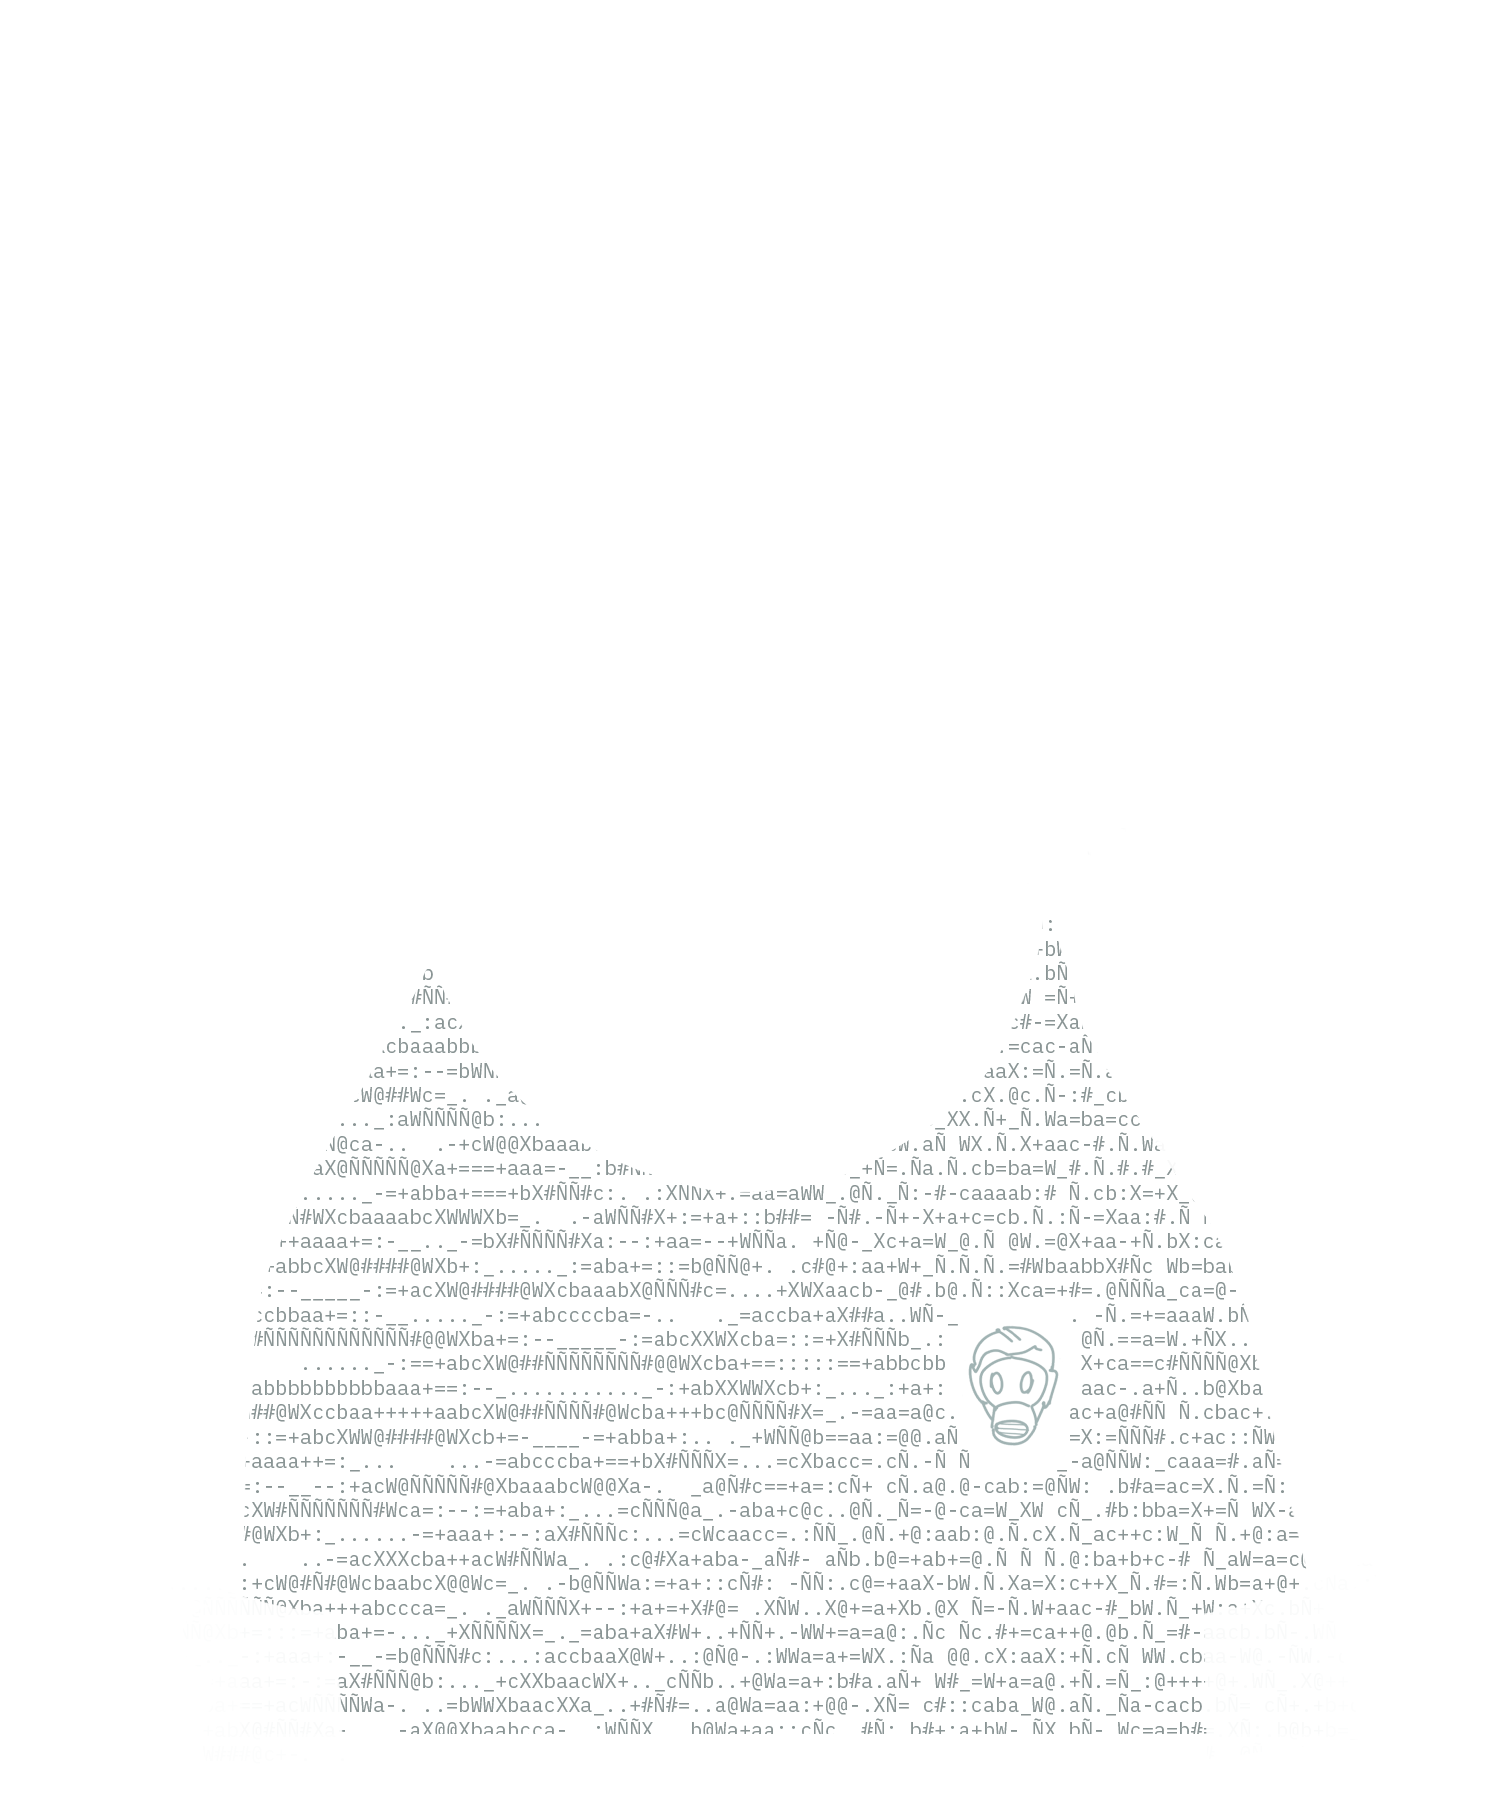
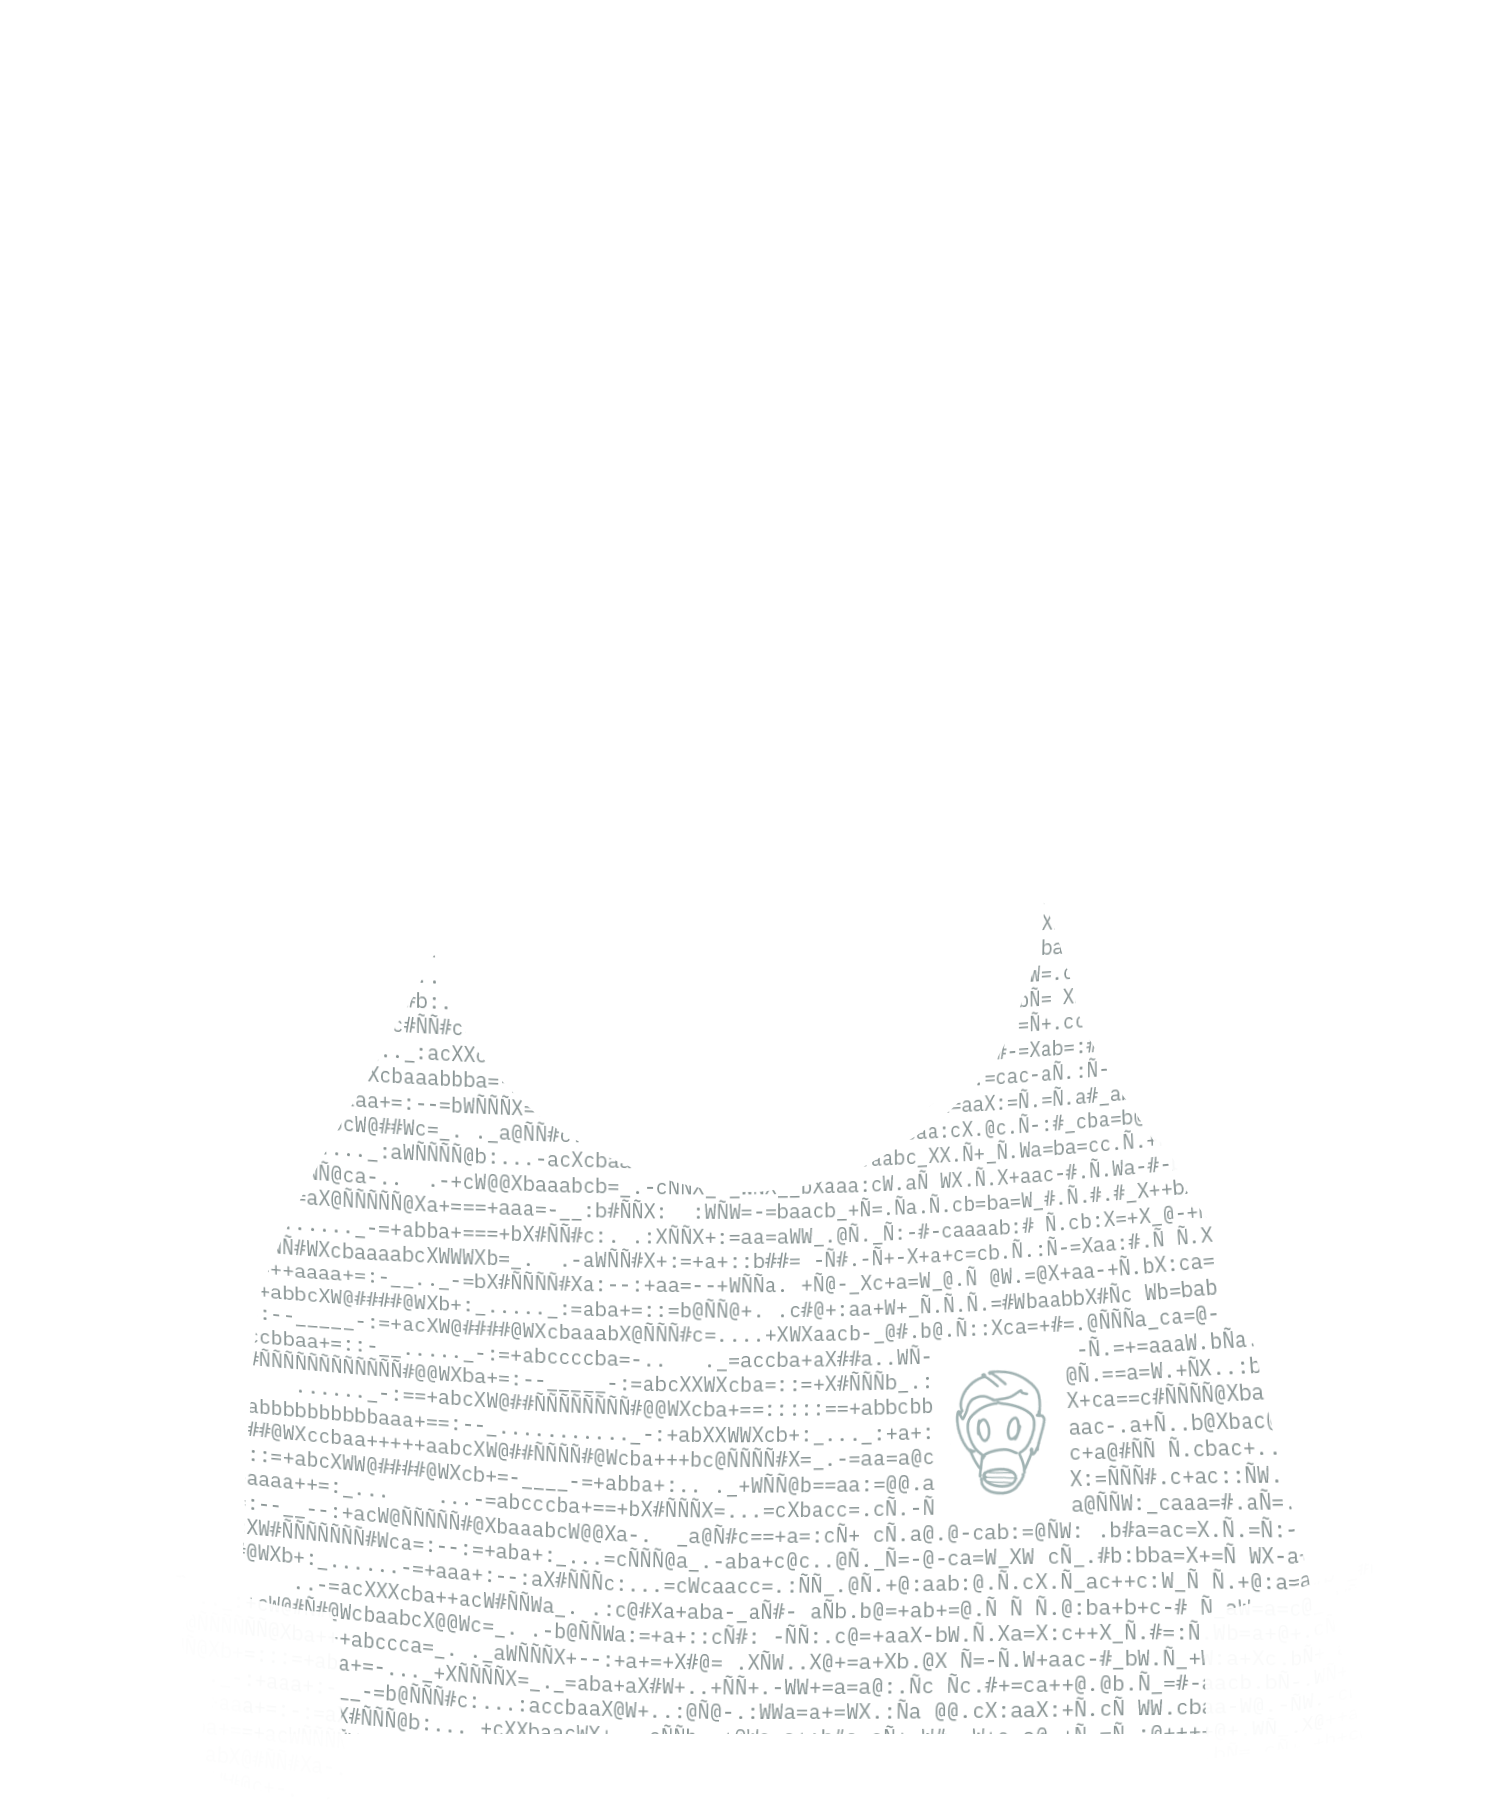
Add Nudoru shirt

Changed region(s): [[0.1546, 0.5289, 0.8656, 0.9644]]

diff --git a/2422.js b/2422.js
@@ -4,7 +4,7 @@ const losOsosSchema = {
         height: 1800,
     },
     backgrounds: ["#f0e7d8", "#e1dbc8", "#ebdeca", "#e5d7bf"],
-    tints: ["#3fb033", "#e60d0d", "#f5d10a", "#46e3ff", "#dd0f66", "#9a04fc", "#eeeae4"],
+    tints: ["#3fb033", "#e60d0d", "#ffc600", "#46e3ff", "#dd0f66", "#9a04fc", "#eeeae4"],
     layers: [
         {
             name: "District",
@@ -206,7 +206,7 @@ const losOsosSchema = {
                 {
                     name: "Cybearpunk",
                     type: PFP.ASSET_DUAL,
-                    level: 850,
+                    level: 550,
                     tints: ["#be1b00", "#2398ca", "#288b00", "#fbbf1e" ],
                     assets: [ 
                         "./assets/occupation_mecha_bear.png",
@@ -426,6 +426,20 @@ const losOsosSchema = {
                 {
                     type: PFP.ASSET_DUAL,
                     chance: 0.9,
+                    name: "Nudoru shirt",
+                    chance: 1000,
+                    tints: [ "#eeeae4", "#bee8f9", "#c1e2b8", "#ffdeca" ],
+                    assets: [ 
+                        { image: "./assets/occupation_citizen1_for_tinting.png", tint: true, }, 
+                        { image: "./assets/occupation_citizen1_back.png", tint: true, },
+                        { image: "./assets/occupation_nudoru_shirt.png", tinted: false, },
+                        "./assets/empty.png",
+                        { image: "./assets/occupation_citizen1_buttons.png", tint: false, }
+                    ],
+                },
+                {
+                    type: PFP.ASSET_DUAL,
+                    chance: 0.9,
                     name: "SMOLSKULLs shirt",
                     assets: [ 
                         { image: "./assets/occupation_citizen1_for_tinting.png", tint: true, }, 
@@ -575,6 +589,7 @@ const losOsosSchema = {
                         image: "./assets/occupation_investor_hoodie_rare.png",
                         tinted: false,
                     } ],
+                    chance: 0.5,
                 },{
                     name: "gm hoodie",
                     type: PFP.ASSET_DUAL,
@@ -741,31 +756,6 @@ const losOsosSchema = {
                             ],
                         }
                     ]
-                },
-                { 
-                    name: "Hand-painted Nudoru hat",
-                    type: PFP.ASSET_DUAL,
-                    assets: [
-                        {
-                            image: "./assets/headwear_hat_cap.png",
-                            tint: ["#cbd8b5", "#f2e8d3"],
-                        },
-                        "./assets/headwear_cap_back.png",
-                        {
-                            image: "./assets/headwear_hat_cap_cover.png",
-                            tint: ["#ed9ff6", "#91dcff", "#f26f7d"],
-                        },
-                        "./assets/empty.png",
-                        {
-                            image: "./assets/headwear_hat_nudoru.png",
-                            tint: false,
-                        },
-                        "./assets/empty.png",
-                        {
-                            image: "./assets/headwear_hat_visor.png",
-                            tint: ["#91dcff", "#f26f7d", "#b1ef63"],
-                        },
-                    ],
                 },
                 { 
                     name: "Beekeeper", 
@@ -1235,6 +1225,11 @@ const losOsosSchema = {
                             tint: true,
                         },
                     ],
+                },
+                {
+                    name: "Wenjimi's ink art",
+                    asset: "./assets/mouth_wenjimi_ink_art.png",
+                    level: 575,
                 },
                 { 
                     name: "Salmon", 
